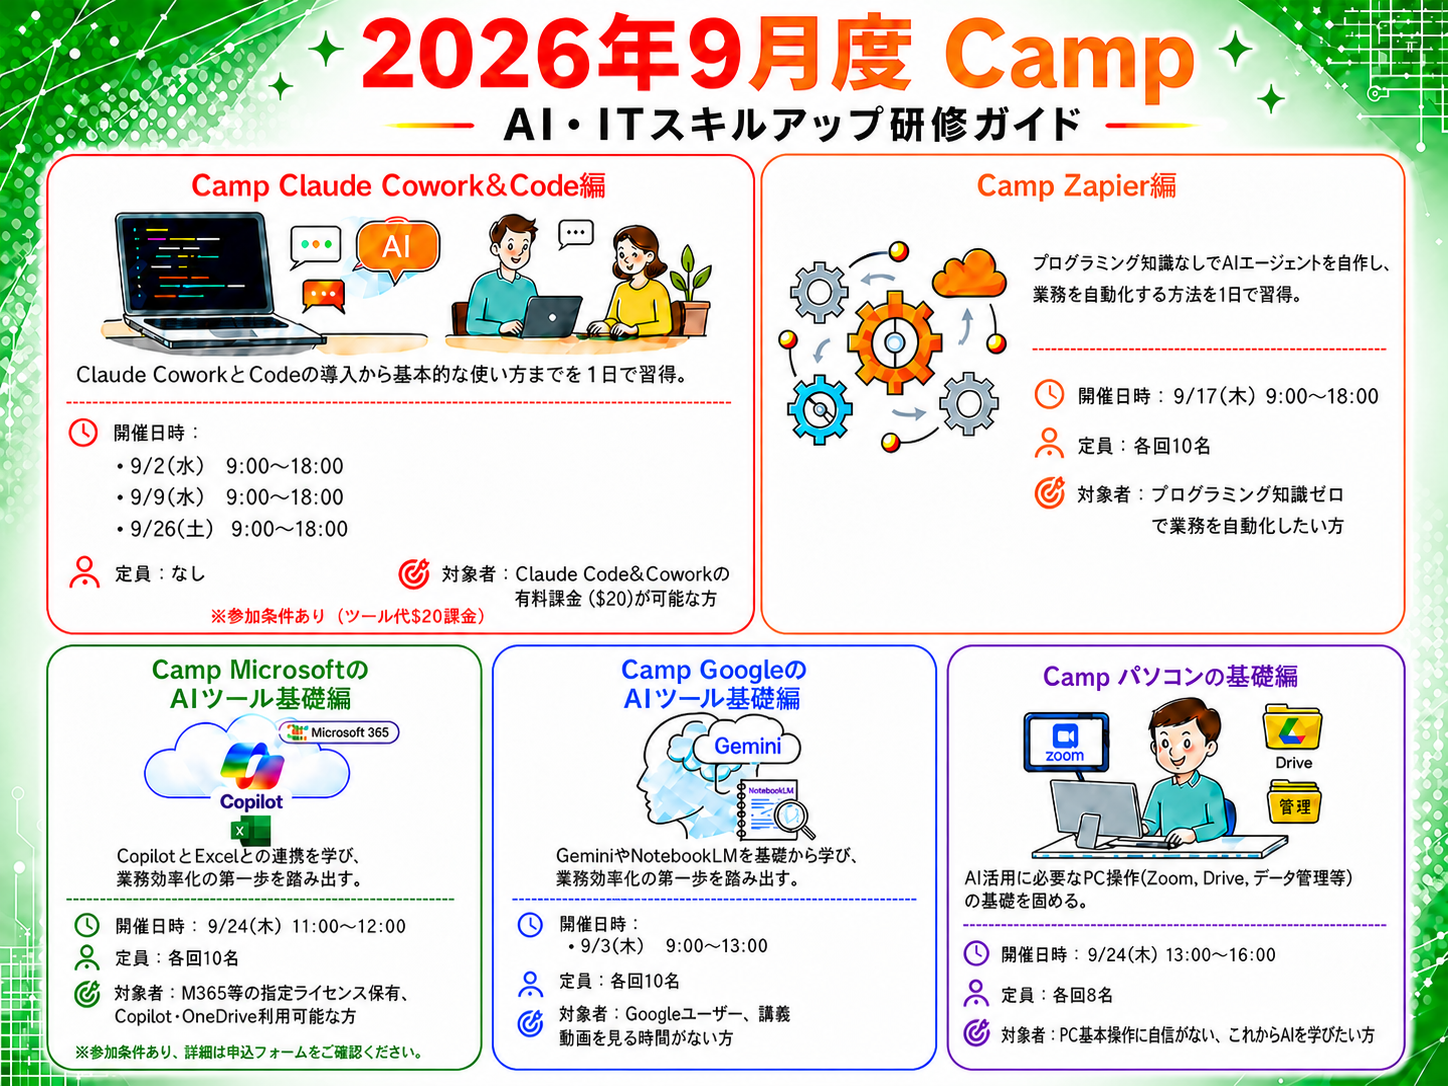
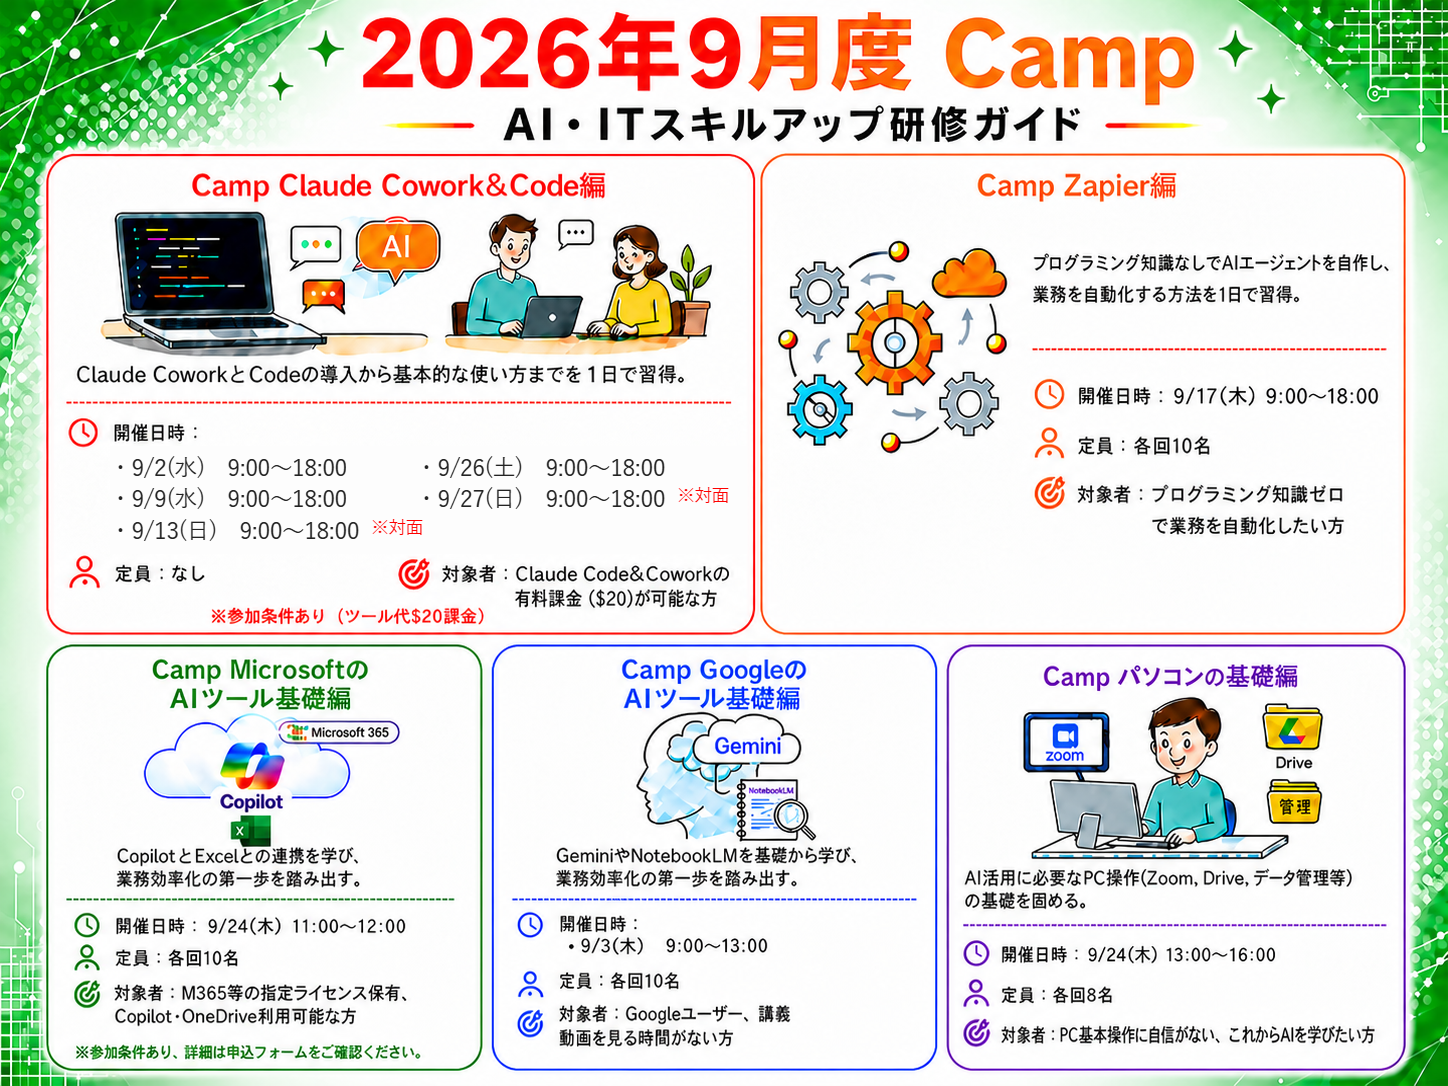
feat: update 2026-09 hero image with 9/13 and 9/27 offline sessions

Changed region(s): [[0.0932, 0.4254, 0.2486, 0.5166], [0.2797, 0.4254, 0.4662, 0.4862]]

diff --git a/2026-09/index.html b/2026-09/index.html
@@ -170,7 +170,7 @@
 </div>
 
 <div class="hero-image-wrap">
-  <img src="hero.png" alt="2026年9月度 Camp AI・ITスキルアップ研修ガイド">
+  <img src="hero.png?v=2" alt="2026年9月度 Camp AI・ITスキルアップ研修ガイド">
 </div>
 
 <div class="container">
